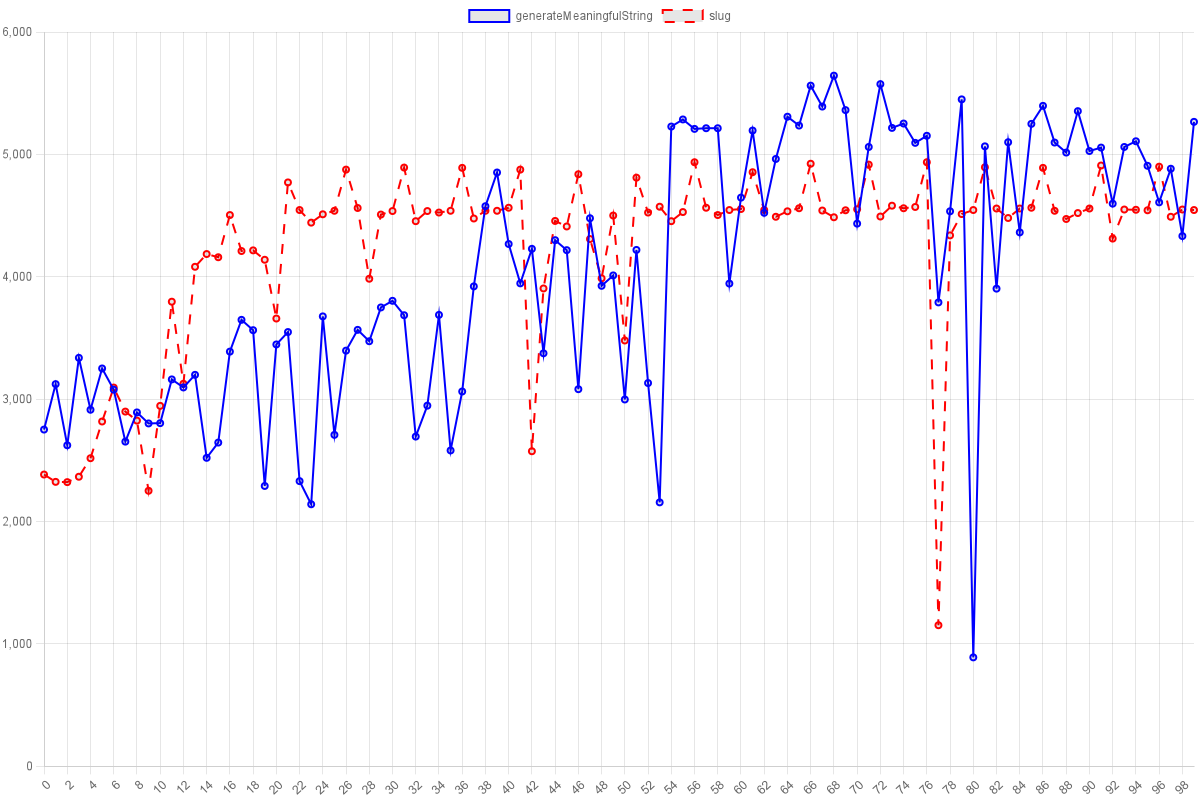
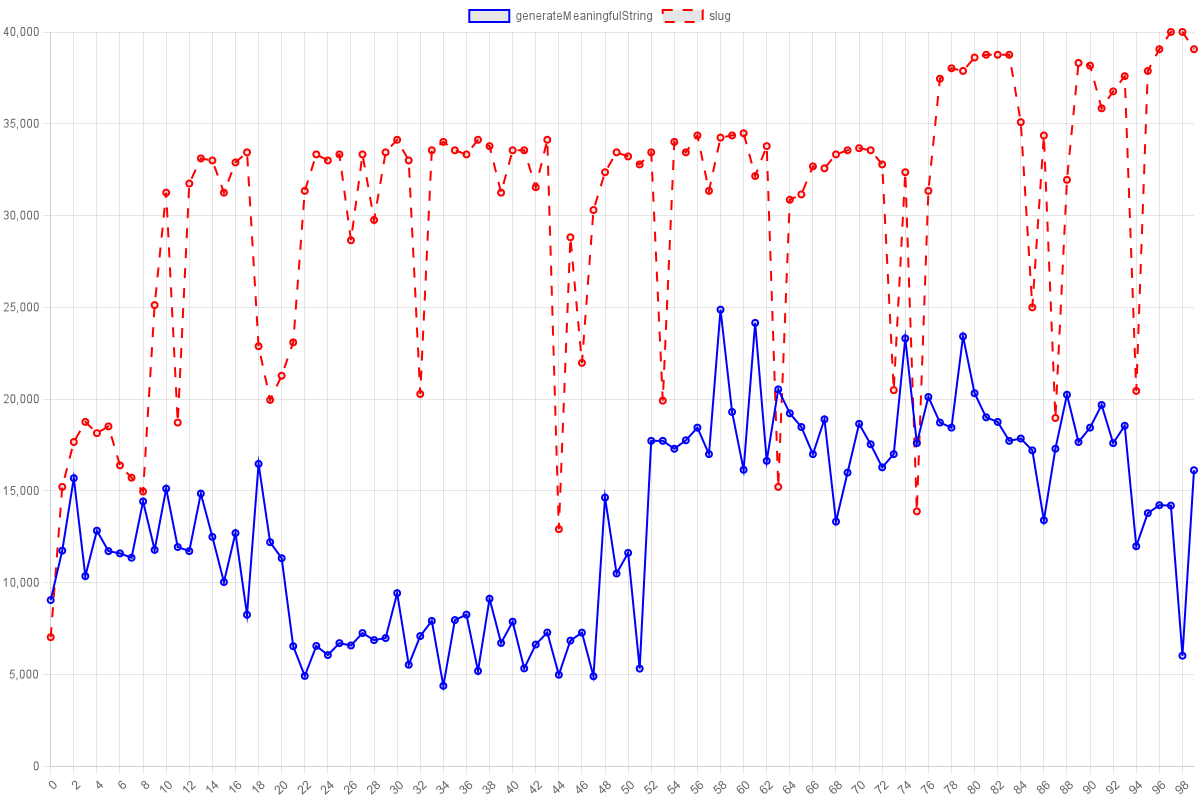
presentation refactoring

diff --git a/src/index.ts b/src/index.ts
@@ -1,6 +1,6 @@
 import { generateMeaningfulString, generateNumber, generatePerson, generateString, generateUUID } from 'test-data-utils'
 import { faker } from '@faker-js/faker'
-import { Benchmark } from '../data-generators-benchmark/src'
+import { Benchmark } from '../../data-generators-benchmark/src'
 
 
 const stubNumberOpts = {
@@ -19,33 +19,39 @@ const stubPartNamesOpts = {
 } as const
 
 const stubMeaningfulStringOpts = {
-	length: 500,
+	length: 30,
 	separator: '-',
 	language: 'en'
 } as const
 
 Benchmark.pushCandidate(generateUUID.bind(null, false), faker.string.uuid)
-Benchmark.plotAndSaveMeasurementTimesCharts()
+Benchmark.saveMeasurementTimesSeries()
+// Benchmark.plotAndSaveMeasurementTimesCharts()
 Benchmark.printAvgGenerationTimes()
 Benchmark.clearCandidates()
 
 Benchmark.pushCandidate(generateNumber.bind(null, stubNumberOpts), faker.number.int.bind(null, stubNumberOpts))
-Benchmark.plotAndSaveMeasurementTimesCharts()
+Benchmark.saveMeasurementTimesSeries()
+// Benchmark.plotAndSaveMeasurementTimesCharts()
 Benchmark.printAvgGenerationTimes()
 Benchmark.clearCandidates()
 
 Benchmark.pushCandidate(generateString.bind(null, stubStringOpts), faker.string.fromCharacters.bind(null, stubStringOpts.charSet, stubStringOpts.length))
-Benchmark.plotAndSaveMeasurementTimesCharts()
+Benchmark.saveMeasurementTimesSeries()
+// Benchmark.plotAndSaveMeasurementTimesCharts()
 Benchmark.printAvgGenerationTimes()
 Benchmark.clearCandidates()
 
 Benchmark.pushCandidate(generatePerson.bind(null, stubPartNamesOpts), faker.person.firstName.bind(null, stubPartNamesOpts.gender))
-Benchmark.plotAndSaveMeasurementTimesCharts()
+Benchmark.saveMeasurementTimesSeries()
+// Benchmark.plotAndSaveMeasurementTimesCharts()
 Benchmark.printAvgGenerationTimes()
 Benchmark.clearCandidates()
 
 Benchmark.pushCandidate(generateMeaningfulString.bind(null, stubMeaningfulStringOpts), faker.lorem.slug.bind(null, stubMeaningfulStringOpts.length))
-Benchmark.plotAndSaveMeasurementTimesCharts()
+Benchmark.saveMeasurementTimesSeries()
+// Benchmark.plotAndSaveMeasurementTimesCharts()
 Benchmark.printAvgGenerationTimes()
 Benchmark.clearCandidates()
 
+// plotting via matplotlib

diff --git a/src/lib/plot-graph.py b/src/lib/plot-graph.py
@@ -1,0 +1,62 @@
+import sys
+import matplotlib.pyplot as plt
+import numpy as np
+from matplotlib.ticker import FuncFormatter
+
+def read_data(filename):
+    with open(filename, 'r') as file:
+        lines = file.readlines()
+        first_fn_name = lines[0]
+        second_fn_name = lines[2]
+        first_fn_ops_per_second = list(map(float, lines[1].strip().split(', ')))
+        second_fn_ops_per_second = list(map(float, lines[3].strip().split(', ')))
+    return first_fn_name, second_fn_name, first_fn_ops_per_second, second_fn_ops_per_second
+
+def plot_data(first_fn_name, second_fn_name,first_fn_ops_per_second, second_fn_ops_per_second, output_path):
+    measurements = np.arange(len(first_fn_ops_per_second))
+
+    # fontsize
+    plt.rcParams.update({'font.size': 20})
+
+    # plot graph
+    plt.figure(figsize=(15, 10))
+
+    plt.plot(measurements, first_fn_ops_per_second, 'b-o', label=first_fn_name, linewidth=2)
+    plt.plot(measurements, second_fn_ops_per_second, 'r--o', label=second_fn_name, linewidth=2)
+
+    plt.xlabel('Номер замера')
+    plt.ylabel('Итерации в секунду')
+    plt.legend()
+
+    # beatify y formatting
+    formatter = FuncFormatter(lambda x, pos: f'{int(x):,}')
+    plt.gca().yaxis.set_major_formatter(formatter)
+
+    # grid
+    plt.grid(True)
+
+    # save graph
+    plt.savefig(output_path)
+    plt.close()
+
+def generate_graph(filename):
+    input_filename = filename
+    output_path = './pics/' + input_filename[input_filename.rfind('/'):].replace('.txt', '.png')
+    print(input_filename)
+
+    first_fn_name, second_fn_name, first_fn_ops_per_second, second_fn_ops_per_second = read_data(input_filename)
+    plot_data(first_fn_name, second_fn_name, first_fn_ops_per_second, second_fn_ops_per_second, output_path)
+
+if __name__ == "__main__":
+
+    paths = [
+          './time_series/generateMeaningfulString.txt',
+          './time_series/generateNumber.txt',
+          './time_series/generatePerson.txt',
+          './time_series/generateString.txt',
+          './time_series/generateUUID.txt'
+        ]
+
+
+    for path in paths:
+        generate_graph(path)
